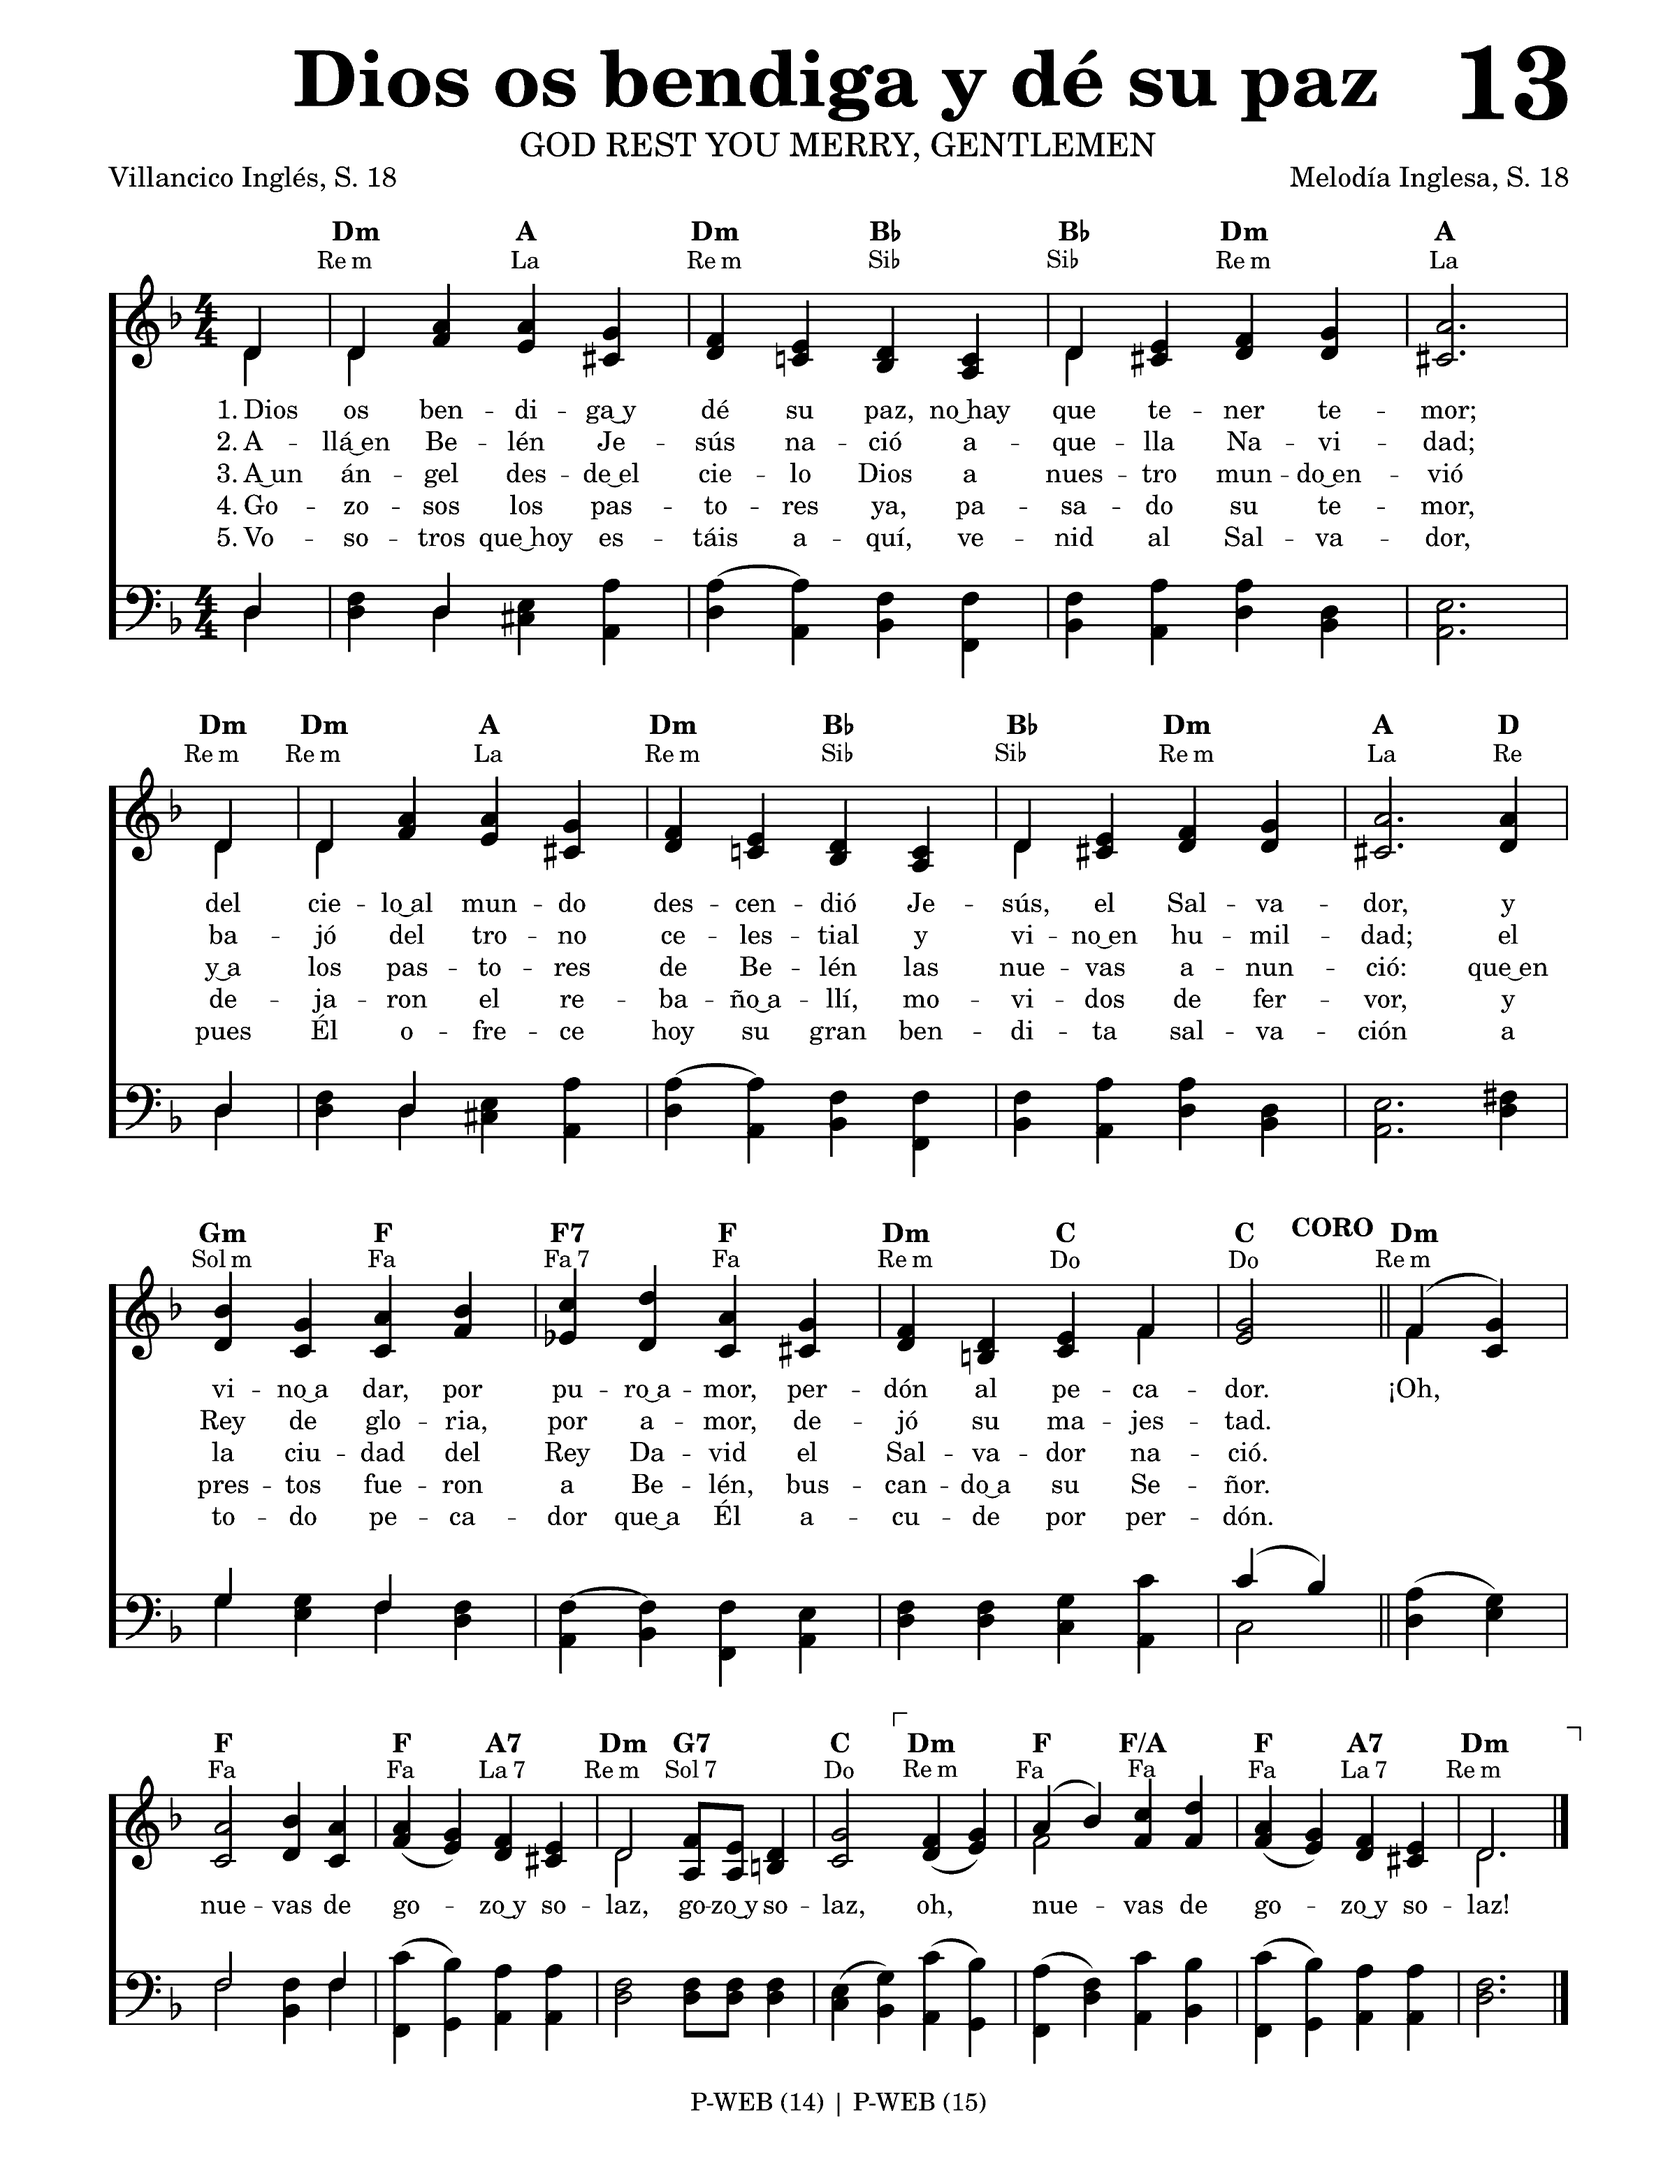
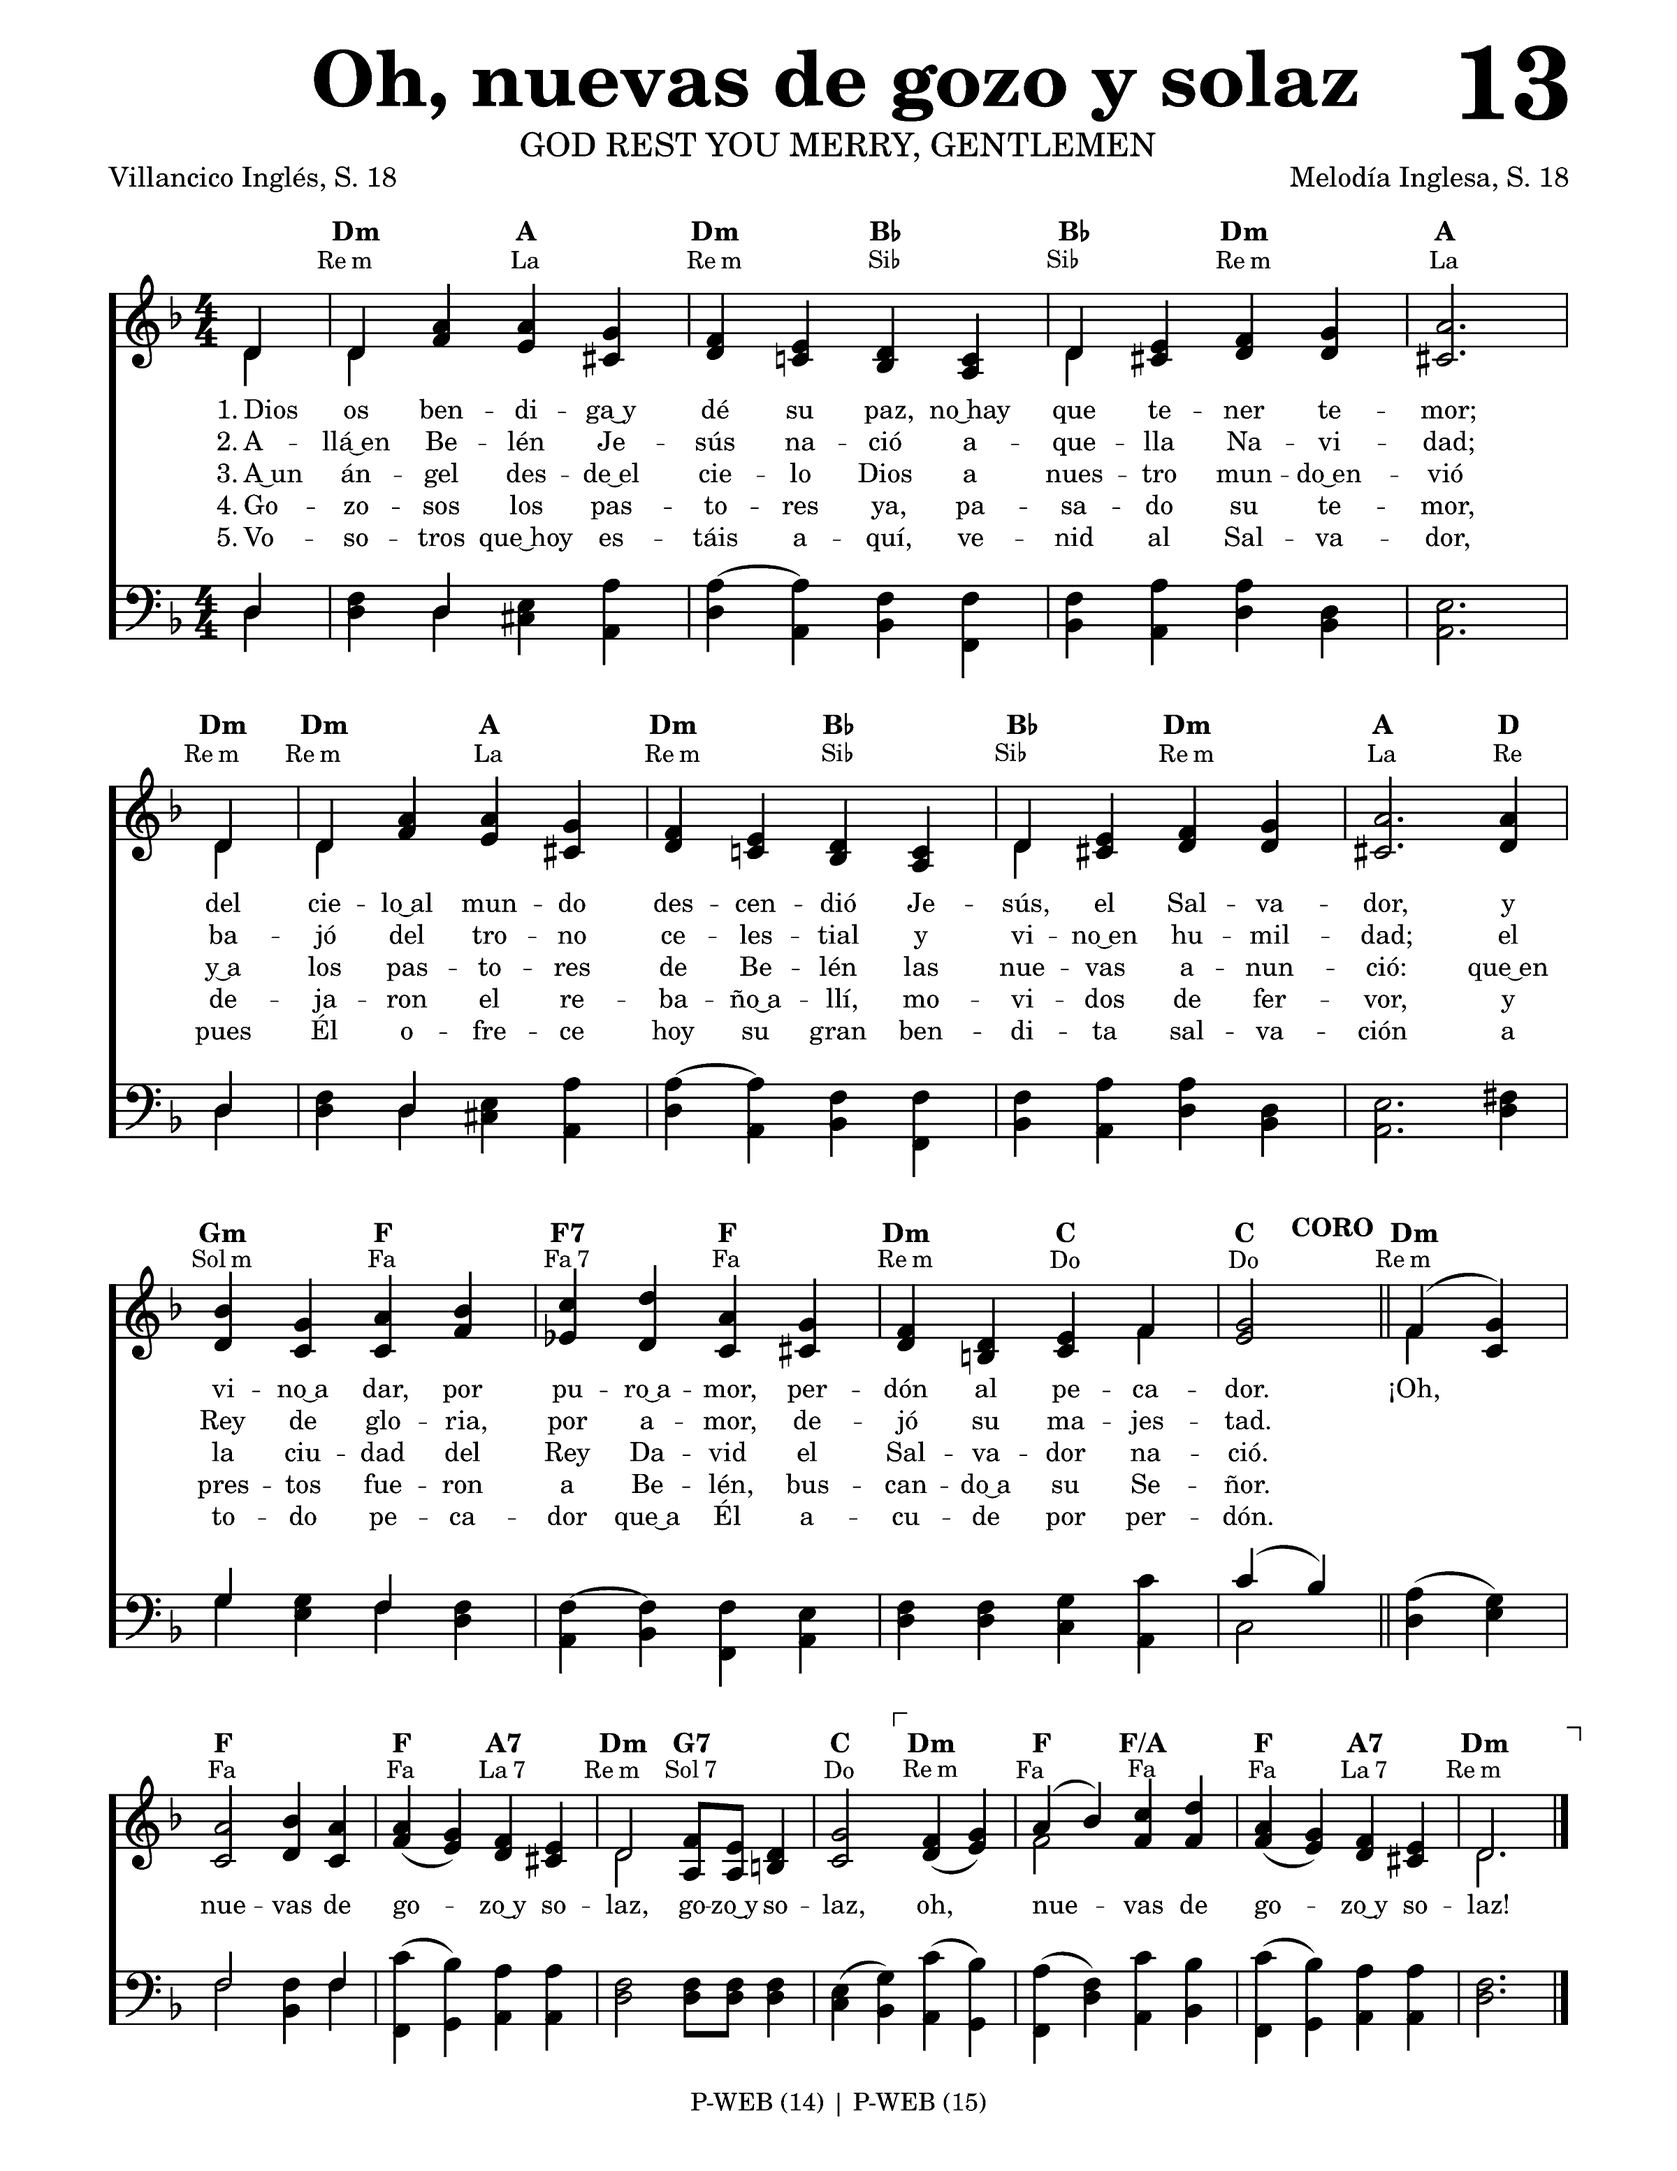
Actualizacion 1.9.1
Navidennio

Changed region(s): [[0.1562, 0.0, 0.8125, 0.0625]]

diff --git a/lib/data/himnos_navidenno.dart b/lib/data/himnos_navidenno.dart
@@ -9,13 +9,13 @@ final List<Himno> himnosNavidenno = [
   Himno(nombre: "A media noche en Belén", numero: 4),
   Himno(nombre: "Ángeles cantando están", numero: 5),
   Himno(nombre: "Ángeles de alta gloria", numero: 6),
-  Himno(nombre: "Allá en el pesebre, segunda melodía (Away in a Manger)", numero: 7),
+  Himno(nombre: "Allá en el pesebre (Segunda melodía)", numero: 7),
   Himno(nombre: "Trayendo nuestro todo (Bringing Our All)", numero: 8),
   Himno(nombre: "Cristianos, hoy cantad a Dios", numero: 9),
   Himno(nombre: "Cristo ha nacido", numero: 10),
   Himno(nombre: "Dime la historia de Cristo", numero: 11),
   Himno(nombre: "Gloria a Dios en las alturas", numero: 12),
-  Himno(nombre: "Dios os bendiga y dé su paz", numero: 13),
+  Himno(nombre: "Oh, nuevas de gozo y solaz", numero: 13),
   Himno(nombre: "La noticia sin igual", numero: 14),
   Himno(nombre: "Noche de paz", numero: 15),
   Himno(nombre: "Oh niños, venid", numero: 16),
@@ -27,14 +27,14 @@ final List<Himno> himnosNavidenno = [
   Himno(nombre: "Pastores cerca de Belén", numero: 22),
   Himno(nombre: "Suenen dulces himnos", numero: 23),
   Himno(nombre: "Santa la noche", numero: 24),
-  Himno(nombre: "Hay una canción en el aire (There's a Song in the Air)", numero: 25),
+  Himno(nombre: "Cantan ángeles mil", numero: 25),
   Himno(nombre: "Tú dejaste tu trono", numero: 26),
-  Himno(nombre: "Tú dejaste tu trono, segunda melodía", numero: 27),
+  Himno(nombre: "Tú dejaste tu trono (Segunda melodía)", numero: 27),
   Himno(nombre: "Ved al niñito", numero: 28),
-  Himno(nombre: "Ve, dilo a las montañas", numero: 29),
+  Himno(nombre: "Ve, dilo en las montañas", numero: 29),
   Himno(nombre: "Venid, fieles todos", numero: 30),
   Himno(nombre: "Vigilante, cuéntanos sobre la noche (Watchman, Tell Us of the Night)", numero: 31),
-  Himno(nombre: "Nosotros somos los tres reyes del Oriente (We Three Kings of Orient Are)", numero: 32),
+  Himno(nombre: "Vamos magos hoy a Belén", numero: 32),
   Himno(nombre: "De tierra lejana venimos", numero: 33),
   Himno(nombre: "Desde el oriente azul", numero: 34),
   Himno(nombre: "Diez mil aleluyas", numero: 35),

diff --git a/lib/data/himnos_navidenno_sib.dart b/lib/data/himnos_navidenno_sib.dart
@@ -9,13 +9,13 @@ final List<Himno> himnosNavidennoSib = [
   Himno(nombre: "A media noche en Belén", numero: 4),
   Himno(nombre: "Ángeles cantando están", numero: 5),
   Himno(nombre: "Ángeles de alta gloria", numero: 6),
-  Himno(nombre: "Allá en el pesebre, segunda melodía (Away in a Manger)", numero: 7),
+  Himno(nombre: "Allá en el pesebre (Segunda melodía)", numero: 7),
   Himno(nombre: "Trayendo nuestro todo (Bringing Our All)", numero: 8),
   Himno(nombre: "Cristianos, hoy cantad a Dios", numero: 9),
   Himno(nombre: "Cristo ha nacido", numero: 10),
   Himno(nombre: "Dime la historia de Cristo", numero: 11),
   Himno(nombre: "Gloria a Dios en las alturas", numero: 12),
-  Himno(nombre: "Dios os bendiga y dé su paz", numero: 13),
+  Himno(nombre: "Oh, nuevas de gozo y solaz", numero: 13),
   Himno(nombre: "La noticia sin igual", numero: 14),
   Himno(nombre: "Noche de paz", numero: 15),
   Himno(nombre: "Oh niños, venid", numero: 16),
@@ -27,12 +27,12 @@ final List<Himno> himnosNavidennoSib = [
   Himno(nombre: "Pastores cerca de Belén", numero: 22),
   Himno(nombre: "Suenen dulces himnos", numero: 23),
   Himno(nombre: "Santa la noche", numero: 24),
-  Himno(nombre: "Hay una canción en el aire (There's a Song in the Air)", numero: 25),
+  Himno(nombre: "Cantan ángeles mil", numero: 25),
   Himno(nombre: "Tú dejaste tu trono", numero: 26),
-  Himno(nombre: "Tú dejaste tu trono, segunda melodía", numero: 27),
+  Himno(nombre: "Tú dejaste tu trono (Segunda melodía)", numero: 27),
   Himno(nombre: "Ved al niñito", numero: 28),
-  Himno(nombre: "Ve, dilo a las montañas", numero: 29),
+  Himno(nombre: "Ve, dilo en las montañas", numero: 29),
   Himno(nombre: "Venid, fieles todos", numero: 30),
   Himno(nombre: "Vigilante, cuéntanos sobre la noche (Watchman, Tell Us of the Night)", numero: 31),
-  Himno(nombre: "Nosotros somos los tres reyes del Oriente (We Three Kings of Orient Are)", numero: 32),
+  Himno(nombre: "Vamos magos hoy a Belén", numero: 32),
 ];

diff --git a/lib/screens/ayuda_screen.dart b/lib/screens/ayuda_screen.dart
@@ -163,7 +163,7 @@ class AyudaScreen extends StatelessWidget {
                   contenido: [
                     _Subtitulo('Descargar un himnario'),
                     _Punto(
-                      '"Descargar" guarda el himnario en el dispositivo (Ministerio Musical cerca de 29 MB, Himnario Navideño Bautista 7 MB, Himnos Majestuosos 72 MB, Himnos de Gracia 18 MB, Celebremos su Gloria 69 MB, Himnario Bautista 58 MB, El Nuevo Himnario Popular 46 MB, Himnario Navideño Bautista Si♭ 2 MB; mejor con Wi-Fi). Después funciona sin internet.',
+                      '"Descargar" guarda el himnario en el dispositivo (Ministerio Musical cerca de 29 MB, Himnario Navideño Bautista 6 MB, Himnos Majestuosos 72 MB, Himnos de Gracia 18 MB, Celebremos su Gloria 69 MB, Himnario Bautista 58 MB, El Nuevo Himnario Popular 46 MB, Himnario Navideño Bautista Si♭ 2 MB; mejor con Wi-Fi). Después funciona sin internet.',
                     ),
                     _Subtitulo(
                       'Verificar descargas (menú ⋮ de la pantalla principal)',

diff --git a/lib/services/version_app_service.dart b/lib/services/version_app_service.dart
@@ -7,7 +7,7 @@ import 'red_web.dart';
 /// segundo plano, que no vuelve a cargar su código por sí sola.
 class VersionAppService {
   /// La que se muestra al final de la Ayuda.
-  static const String version = '1.9.0';
+  static const String version = '1.9.1';
 
   static const String _despliegue = String.fromEnvironment('DESPLIEGUE');
 
